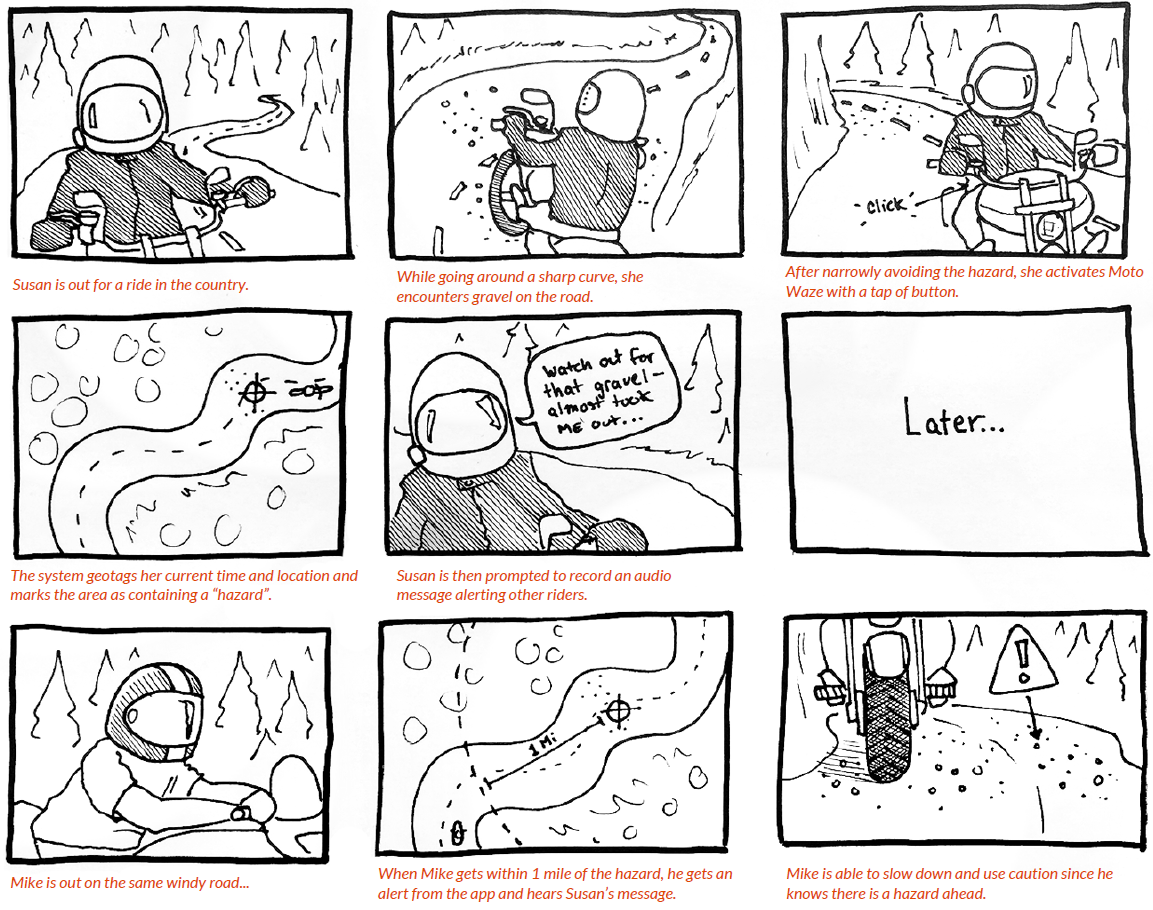
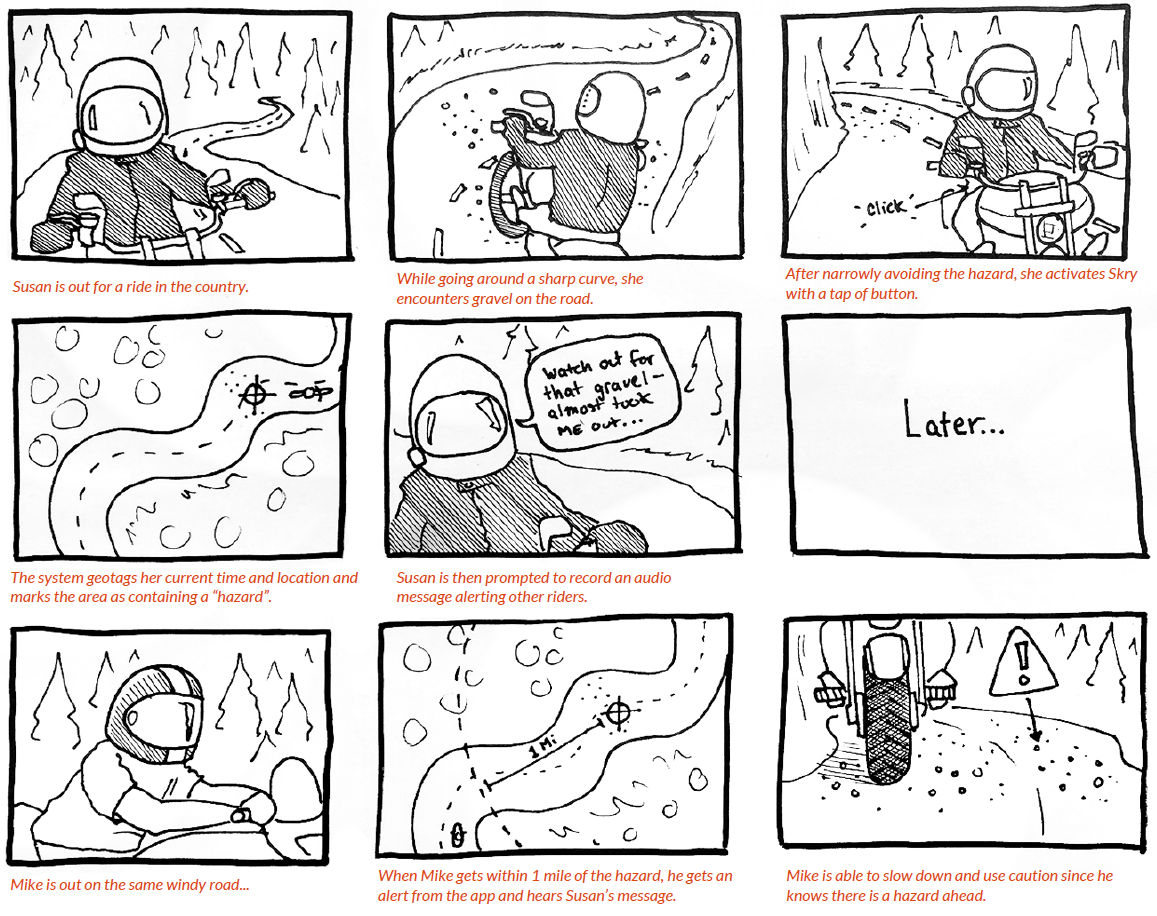
Navigation update

diff --git a/portfolio/skry/index.html b/portfolio/skry/index.html
@@ -328,7 +328,7 @@
 				   
 				   <div class="marginTop30 marginBottom30">
 				     <div class="portfolioImgCenter">
-					 <div class="portfolioImgCaption"><img class="portfolioImg" src="../../wp-content/themes/CC/imgs/img_portfolio/skry09.jpg" /></div>
+					 <div class="portfolioImgCaption"><img class="portfolioImg" src="../../wp-content/themes/CC/imgs/img_portfolio/skry09.JPG" /></div>
 					 </div>
 				  </div>
 				   
@@ -375,7 +375,7 @@
 				
 				 <div class="marginTop30 marginBottom30">
 				     <div class="portfolioImgCenter">
-					 <div class="portfolioImgCaption"><img class="portfolioImg" src="../../wp-content/themes/CC/imgs/img_portfolio/skry11.jpg" /></div>
+					 <div class="portfolioImgCaption"><img class="portfolioImg" src="../../wp-content/themes/CC/imgs/img_portfolio/skry11.JPG" /></div>
 					 </div>
 				  </div>
 				  <div class="divider">    
@@ -426,7 +426,7 @@
                    <p>Each team member generated individual thumbnails during a brainstorm session, and then presented their concepts. Duplicate concepts were removed leading to 52 generated concepts in total.</p>
 			       <div class="marginTop30 marginBottom30">
 				     <div class="portfolioImgCenter">
-					 <div class="portfolioImgCaption"><img class="portfolioImg" src="../../wp-content/themes/CC/imgs/img_portfolio/skry14.jpg" /></div>
+					 <div class="portfolioImgCaption"><img class="portfolioImg" src="../../wp-content/themes/CC/imgs/img_portfolio/skry14.JPG" /></div>
 					 </div>
 				  </div>
 				  <div class="divider">    
@@ -441,10 +441,10 @@
                    <p>After generating the initial concepts, we grouped them based on how well they mapped to our design prompts from the research phase. We also generated mindmaps to understand the rider's mental model. Finally, we explored how well some of the concepts would function under certain hypothetical scenarios and generated a business origami toolkit to better visualize the scenarios.</p>
 			       <div class="marginTop30 marginBottom30">
 				     <div class="portfolioImgCenter">
-					 <div class="portfolioImgCaption"><img class="portfolioImg" src="../../wp-content/themes/CC/imgs/img_portfolio/skry15.jpg" /><p>Mapping concepts to design prompts</p></div>
-					 <div class="portfolioImgCaption"><img class="portfolioImg" src="../../wp-content/themes/CC/imgs/img_portfolio/skry16.jpg" /><p>Mindmap of a rider's mental model</p></div>
-					 <div class="portfolioImgCaption"><img class="portfolioImg" src="../../wp-content/themes/CC/imgs/img_portfolio/skry17.jpg" /><p>Scenario creation where a rider encounters a hazard</p></div>
-					  <div class="portfolioImgCaption"><img class="portfolioImg" src="../../wp-content/themes/CC/imgs/img_portfolio/skry18.jpg" /><p>Business origami toolkit of a busy intersection</p></div>
+					 <div class="portfolioImgCaption"><img class="portfolioImg" src="../../wp-content/themes/CC/imgs/img_portfolio/skry15.JPG" /><p>Mapping concepts to design prompts</p></div>
+					 <div class="portfolioImgCaption"><img class="portfolioImg" src="../../wp-content/themes/CC/imgs/img_portfolio/skry16.JPG" /><p>Mindmap of a rider's mental model</p></div>
+					 <div class="portfolioImgCaption"><img class="portfolioImg" src="../../wp-content/themes/CC/imgs/img_portfolio/skry17.JPG" /><p>Scenario creation where a rider encounters a hazard</p></div>
+					  <div class="portfolioImgCaption"><img class="portfolioImg" src="../../wp-content/themes/CC/imgs/img_portfolio/skry18.JPG" /><p>Business origami toolkit of a busy intersection</p></div>
 					 </div>
 				  </div>
 				  <div class="divider">    
@@ -459,8 +459,8 @@
                    <p>Once the first round of ideation and refinement was finished, we voted on which concepts we liked the best based on the design artifacts generated. The top 5 concepts were selected and then expanded upon through another round of ideation and brainstorming around each concept, exploring what other possible features/affordances they could provide.</p>
 			       <div class="marginTop30 marginBottom30">
 				     <div class="portfolioImgCenter">
-					 <div class="portfolioImgCaption"><img class="portfolioImg" src="../../wp-content/themes/CC/imgs/img_portfolio/skry19.jpg" /><p>Voting on the concepts</p></div>
-					 <div class="portfolioImgCaption"><img class="portfolioImg" src="../../wp-content/themes/CC/imgs/img_portfolio/skry20.jpg" /><p>List of features/affordances for one of the concepts</p></div>
+					 <div class="portfolioImgCaption"><img class="portfolioImg" src="../../wp-content/themes/CC/imgs/img_portfolio/skry19.JPG" /><p>Voting on the concepts</p></div>
+					 <div class="portfolioImgCaption"><img class="portfolioImg" src="../../wp-content/themes/CC/imgs/img_portfolio/skry20.JPG" /><p>List of features/affordances for one of the concepts</p></div>
 					 </div>
 				  </div>
 				  <div class="divider">    
@@ -476,7 +476,7 @@
 				   <p>We ultimately decided to go with the second direction, as it's much easier to increase the rider's awareness then it is to increase other drivers, at least until vehicle to vehicle communication is available with 5G and IOT. The concept we ended up picking from this design direction was the hazard alert and reporting system, similar to Waze but catered towards motorcyclists.</p>
 			       <div class="marginTop30 marginBottom30">
 				     <div class="portfolioImgCenter">
-					 <div class="portfolioImgCaption"><img class="portfolioImg" src="../../wp-content/themes/CC/imgs/img_portfolio/skry21.jpg" /></div>
+					 <div class="portfolioImgCaption"><img class="portfolioImg" src="../../wp-content/themes/CC/imgs/img_portfolio/skry21.JPG" /></div>
 					 </div>
 				  </div>
 				  <div class="divider">    
@@ -488,7 +488,7 @@
 				   
 				  <div class="contentWrapper_portfolio"> 
 				  <div class="contentH3">Storyboard of Final Concept</div>
-                   <p>We created a storyboard of our final concept, where the system alerts the rider of upcoming hazards and events through a mobile app connected to a rider's bluetooth headset. The rider would also be able to alert others through a recorded message. While not shown, the rider could also plan their trip and review their post-ride report through the app as well.</p>
+                   <p>We created a storyboard of our final concept, where the system alerts the rider of upcoming hazards and events through a mobile app connected to a rider's bluetooth headset. The rider would also be able to alert others through a recorded message. While not shown, the rider could also plan their trip and review their post-ride report through the app as well. We decided to call our concept "Skry" as it provides a look into the future.</p>
 			       <div class="marginTop30 marginBottom30">
 				     <div class="portfolioImgCenter">
 					 <div class="portfolioImgCaption"><img class="portfolioImg" src="../../wp-content/themes/CC/imgs/img_portfolio/skry22.png" /></div>
@@ -515,6 +515,79 @@
 					   <div class="dot3"></div>
 				  </div> 
 				   </div><!--end of contentWrapper_portfolio--> 
+				   
+				  <div class="contentWrapper_portfolio"> 
+				  <div class="contentH3">Evaluation #1 - Focus Group (3 participants)</div>
+                   <p>In the first phase of testing we conducted a small focus group with participatory design to learn about road symbology, hazards, and button placement. When discussing symbology and hazards, we presented images to the group and asked for opinions. For button placement, we asked riders to sit on their motorcycle and imagine what it would be like to geo-tag a hazard on the road. We provided stickers and asked them to place it where they believed the button should be placed.</p>
+				   <div class="marginTop30 marginBottom30">
+				     <div class="portfolioImgCenter">
+					 <div class="portfolioImgCaption"><img class="portfolioImg" src="../../wp-content/themes/CC/imgs/img_portfolio/skry24.png" /></div>
+					 </div>
+				  </div>
+				   <p>From the focus group, we found that certain standardized icons like fog weren't easily recognizable. Participants also stated  they would like to know about issues that already have signage such as construction zones or deer crossing but would likely not report it to others. For button placement, safety and convenience was key, although some suggested using voice activation for riders with bluetooth headsets as it was safer/easier.</p>
+
+				  <div class="divider">    
+					   <div class="dot1"></div>
+					   <div class="dot2"></div>
+					   <div class="dot3"></div>
+				  </div> 
+				   </div><!--end of contentWrapper_portfolio--> 
+				   
+				  <div class="contentWrapper_portfolio"> 
+				  <div class="contentH3">Evaluation #1 - Concept Walkthrough (2 participants)</div>
+                   <p>The second part of the first phase was testing how users might actually interact with the system while on the road. Participants sat on their motorcycles and the facilitator walked them through a trip between two destinations using the system. Participants were asked to think-aloud during their ride and were told they did not need to report or confirm any event if they did not want to.</p>
+				   <p>1. To simulate a hazard alert, users were alerted with an audible "beep" by the facilitator and presented with an image of an icon.</p>
+				   <p>2. When a crowdsourced message was relayed, the faciliator recited the message and held up an image of the upcoming event. User's were asked to confirm or deny the existence of the event.</p>
+				   <p>3. For a non-reported hazard, an image of the hazard was shown without the auditory alert. If the user wished to report the hazard, they would press a button that was affixed to their motorcycle beforehand.</p>
+				   
+			       <div class="marginTop30 marginBottom30">
+				     <div class="portfolioImgCenter">
+					 <div class="portfolioImgCaption"><img class="portfolioImg" src="../../wp-content/themes/CC/imgs/img_portfolio/skry25.png" /></div>
+					 </div>
+				  </div>
+				  <p>Following the ride, participants were asked to go through a paper prototype of the mobile app in which they reviewed passed and reported hazards.</p>
+				  
+				  <div class="marginTop30 marginBottom30">
+				     <div class="portfolioImgCenter">
+					 <div class="portfolioImgCaption"><img class="portfolioImg" src="../../wp-content/themes/CC/imgs/img_portfolio/skry26.png" /></div>
+					 </div>
+				  </div>
+				  <p>Our participants stated they felt good about reporting serious hazards to other riders because it would help others ride safer. They also liked the personalization aspect of hearing someone's recorded message but expressed concerns about not being able to understand the message due to noise/accent. They also wanted additional info such as the length and severity of the hazard. Before hearing a report, they would like it to be validated in some way (i.e. multiple reports). Both users were fine with viewing and confirming their own reports, but not others.</p>
+				  <div class="divider">    
+					   <div class="dot1"></div>
+					   <div class="dot2"></div>
+					   <div class="dot3"></div>
+				  </div> 
+				   </div><!--end of contentWrapper_portfolio--> 
+				   
+				  <div class="contentWrapper_portfolio"> 
+				  <div class="contentH3">Evaluation #2 - Concept Walkthrough (7 participants)</div>
+                   <p>For the second test, we focused on constructing a wizard of oz prototype that would be more interactive, based on feedback from the first user test. Participants would be playing a motorcycle simulation game on an iPad to simulate the cognitive load of riding, and hazards and alert tones would appear in a split-screen view following our test script:</p>
+				   <p>1. Users were first given a brief demo of the system to help onboard them as to how it worked.</p>
+				   <p>2. They were expected to initiate the system we created (Skry) when reporting a hazard, by saying the clutch "Skry report."</p>
+				   <p>3. This was then followed by a confirmation tone, where the user could then record a message of the hazard they encountered.</p>
+				   <p>4. Once the message was complete, the user would then say "Skry end", which was followed by an end tone.</p>
+				   <p>5. When encountering a reported hazard, the system would provide a hazard alert tone as the user entered the hazard zone, coupled with a HUD icon of the hazard with text.</p>
+				   <p>6. After the user has exited the hazard zone, they would hear an end tone, and then be prompted after 5 seconds to confirm/deny the hazard with a confirmation tone.</p>
+				   <p>7. Once the ride was complete, the user was asked to confirm/deny hazards through an updated paper prototype.</p>
+				   <div class="marginTop30 marginBottom30">
+				     <div class="portfolioImgCenter">
+					 <div class="portfolioImgCaption"><img class="portfolioImg" src="../../wp-content/themes/CC/imgs/img_portfolio/skry27.png" /><p>Motorcycle simulation game on iPad</div>
+					 </div>
+					 <div class="portfolioImgCaption"><img class="portfolioImg" src="../../wp-content/themes/CC/imgs/img_portfolio/skry28.png" /><p>Split screen setup of the game and hazard alert</div>
+					 </div>
+					 <div class="portfolioImgCaption"><img class="portfolioImg" src="../../wp-content/themes/CC/imgs/img_portfolio/skry29.png" /><p>Low-fidelity paper prototype for post-ride hazard review</div>
+					 </div>
+				  </div>
+
+				  <div class="divider">    
+					   <div class="dot1"></div>
+					   <div class="dot2"></div>
+					   <div class="dot3"></div>
+				  </div> 
+				   </div><!--end of contentWrapper_portfolio--> 
+				   
+
    </section>
 
 </div><!--end of main-->
